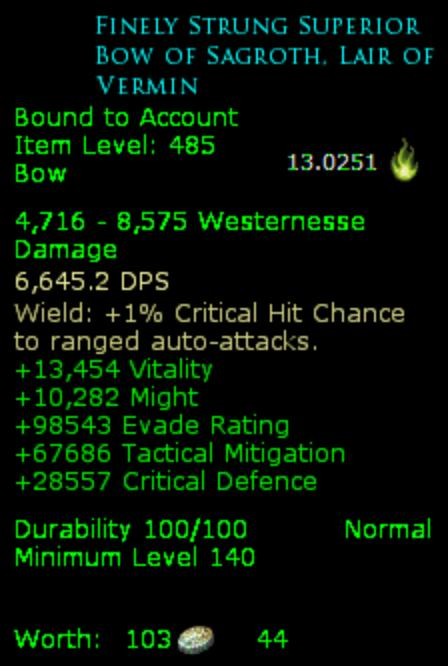
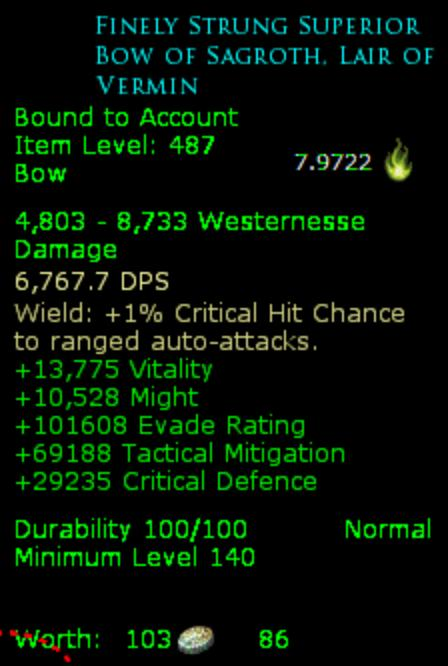
Buncha Changes

diff --git a/TooltipGathering/Software/Classes/Tooltips/ItemTooltip.py b/TooltipGathering/Software/Classes/Tooltips/ItemTooltip.py
@@ -2,9 +2,14 @@ import string
 import sys
 
 from Classes.Database.DatabaseHandler import DatabaseHandler, get_database, create_insert_query
-from Classes.Utils.Utils import STAT_NAMES, StatType, EssenceTiers140
+from Classes.Utils.Utils import STAT_NAMES, StatType, EssenceTiers140, get_essence_weight, CURRENT_CLASS
+from Classes.Database.Utils import calculate_morale_essence_value
 
 database = get_database()
+
+
+def remove_unwanted_characters(text):
+    return text.translate(str.maketrans("", "", "+-*,." + string.digits)).strip()
 
 
 class ItemTooltip:
@@ -17,7 +22,6 @@ class ItemTooltip:
         self.essence_value = self.get_essence_value()
         self.start = position[0]
         self.end = position[1]
-
     def __str__(self):
         return f"""Name: {self.name}
 Item Level: {self.item_level}
@@ -101,9 +105,14 @@ Essence Value: {self.essence_value}
     def get_essence_value(self):
         total_essence_slices = 0
         for stat_name, amount in self.raw_stats.items():
+            if stat_name != 'Maximum Morale':
+                essence_value = DatabaseHandler.essence_values.get(stat_name)
+            else:
+                essence_value = calculate_morale_essence_value.get(CURRENT_CLASS)
+
             # ToDo: Weights, User Input
-            essence_value = DatabaseHandler.essence_values.get(stat_name)
-            total_essence_slices += round(amount / essence_value, 4)
+            print(stat_name)
+            total_essence_slices += round(amount / essence_value * get_essence_weight(stat_name), 4)
 
         return round(total_essence_slices + self.essence_slots, 4)
 
@@ -122,7 +131,7 @@ Essence Value: {self.essence_value}
         if "Equipped" in self.text[0]:
             name = name[1:]
 
-        return ' '.join(name).title() or None
+        return ' '.join(name).title()
 
     def find_essence_slots(self):
         amount_of_slots = 0
@@ -145,18 +154,15 @@ Essence Value: {self.essence_value}
 
         return item_level, index
 
-    def remove_unwanted_characters(self, text):
-        return text.translate(str.maketrans("", "", "+-*,." + string.digits)).strip()
-
     def find_item_stats(self, item_level_index):
         stats = {}
         raw_stats = {}
         try:
-        # ToDo: Add Maximum Morale to Raw_Stats. (Formula = (1 / ((Vitality Essence Contrib - Raw_Stat Essence Contrib) / Morale Per Vitality))
             for index in range(item_level_index, len(self.text)):
+                # ToDo: Clean Up
                 # Remove All Numbers/Symbols from String. Only Stat Name Remains
-                letters_only_text = self.remove_unwanted_characters(self.text[index])
-                letters_only_text_and_next_row = letters_only_text + ' ' + self.remove_unwanted_characters(
+                letters_only_text = remove_unwanted_characters(self.text[index])
+                letters_only_text_and_next_row = letters_only_text + ' ' + remove_unwanted_characters(
                     self.text[index + 1])
                 if letters_only_text in STAT_NAMES:
                     stat = STAT_NAMES[STAT_NAMES.index(letters_only_text)]
@@ -169,6 +175,7 @@ Essence Value: {self.essence_value}
                     if "ESSENCE" in self.text[index] or "EMPTY SLOT" in self.text[index] or "Durability" in self.text[index]:
                         break
                     continue
+
                 amount = self.text[index].replace(letters_only_text, '').replace('+', '').replace(',', '').strip()
                 stats[stat] = int(amount)
                 # Vit Treated as Raw Stat

diff --git a/TooltipGathering/Software/Classes/Database/Utils.py b/TooltipGathering/Software/Classes/Database/Utils.py
@@ -5,20 +5,36 @@ database: DatabaseHandler = get_database()
 
 
 def calculate_morale_essence_value(essence_tier=3):
+    essence_values_per_class = {}
+
     vitality_essence_value = database.get_essences(essence_tier)['Vitality']
     VITALITY_STAT_ID = 4
 
     for class_name, class_id in DatabaseHandler.mappings.get("CLASSES").items():
         raw_stat_query = "SELECT raw_stat_id, amount FROM Main_Stats_To_Raw_Stats WHERE class_id = %s AND main_stat_id = %s"
 
-        main_stat_to_raw_stats = database.execute_select(raw_stat_query, class_id, VITALITY_STAT_ID)
-        for values in main_stat_to_raw_stats:
+        vitality_raw_stats = database.execute_select(raw_stat_query, class_id, VITALITY_STAT_ID)
+
+        # Initial Value - To be modified depending on other Raw Stats.
+        vitality_morale_contribution = 1
+        for values in vitality_raw_stats:
             stat_id = values[0]
             stat_amount_per_point = values[1]
+            if stat_id == 14:  # Skip Morale Stat.
+                continue
 
             stat_name = get_key_from_dictionary(DatabaseHandler.mappings.get('RAW_STATS'), stat_id)
 
-            essence_slice_value = (vitality_essence_value * stat_amount_per_point) / database.get_essences(essence_tier)[stat_name]
-            print(essence_slice_value, database.get_essences(essence_tier)[stat_name])
-            
-            
+            essence_slice_value = (vitality_essence_value * stat_amount_per_point) / \
+                                  database.get_essences(essence_tier)[stat_name]
+
+            vitality_morale_contribution -= essence_slice_value
+
+        morale_per_vitality_point_query = f"SELECT cs.amount FROM main_stats_to_raw_stats cs WHERE class_id = {class_id} AND raw_stat_id = 14"
+        morale_per_vitality_point = database.execute_select(morale_per_vitality_point_query)[0][0]
+
+        morale_per_vitality_essence = morale_per_vitality_point * DatabaseHandler.essence_values.get('Vitality')
+
+        essence_values_per_class[class_id] = morale_per_vitality_essence
+
+    return essence_values_per_class

diff --git a/TooltipGathering/Software/Classes/Utils/Utils.py b/TooltipGathering/Software/Classes/Utils/Utils.py
@@ -45,3 +45,26 @@ class EssenceTiers140(Enum):
 def get_key_from_dictionary(dictionary, value):
     return list(dictionary.keys())[
         list(dictionary.values()).index(value)]
+
+
+CURRENT_CLASS = 1
+
+essence_weights = {"Maximum Morale": 1,
+                   "Vitality": 1,
+                   "Finesse Rating": 1,
+                   "Critical Defence": 0,
+                   "Resistance Rating": 0,
+                   "Tactical Mastery Rating": 0,
+                   "Incoming Healing Rating": 0,
+                   "Tactical Mitigation": 1,
+                   "Critical Rating": 1,
+                   "Parry Rating": 0,
+                   "Outgoing Healing Rating": 0.75,
+                   "Evade Rating": 0,
+                   "Physical Mitigation": 1,
+                   "Physical Mastery Rating": 0,
+                   "Block Rating": 0}
+
+
+def get_essence_weight(stat):
+    return essence_weights.get(stat)

diff --git a/TooltipGathering/Software/Classes/Utils/PluginDataParser.py b/TooltipGathering/Software/Classes/Utils/PluginDataParser.py
@@ -1,0 +1,21 @@
+import os
+import re
+
+LOTRO_DIR = os.path.expanduser(r"~\Documents\The Lord of the Rings Online\PluginData")
+
+current_profile_file = open(LOTRO_DIR + r"\maxusdrago\Crickhollow\Drakensbear\EVCTest.plugindata")
+
+content = current_profile_file.read()
+
+regex_groups = r'(?P<stat_name>[a-zA-Z\s]*)"] = "(?P<stat_weight>\d+.*\d*)"'
+pattern = re.compile(regex_groups)
+
+essence_weights = {}
+
+for match in pattern.finditer(content):
+    stat_name = match.group(1)
+    stat_weight = match.group(2)
+    
+    essence_weights[stat_name] = stat_weight
+    
+print(essence_weights)

diff --git a/TooltipGathering/Software/Main.py b/TooltipGathering/Software/Main.py
@@ -3,12 +3,8 @@ from time import *
 
 from Classes import TooltipDetector
 from Classes.Utils.Tkinter import get_window_instance
-from Classes.Database.Utils import calculate_morale_essence_value
-
-calculate_morale_essence_value()
 
 evd = get_window_instance()
-
 
 def main(mode):
     try:

diff --git a/TooltipGathering/Software/Classes/TooltipDetector.py b/TooltipGathering/Software/Classes/TooltipDetector.py
@@ -117,7 +117,6 @@ def get_screen_contents():
         # Use with Custom Skin
         canny = cv.Canny(image, 1450, 750)
         analysis = cv.connectedComponentsWithStats(canny, 4, cv.CV_32S)
-
         return screenshot, analysis
 
 
